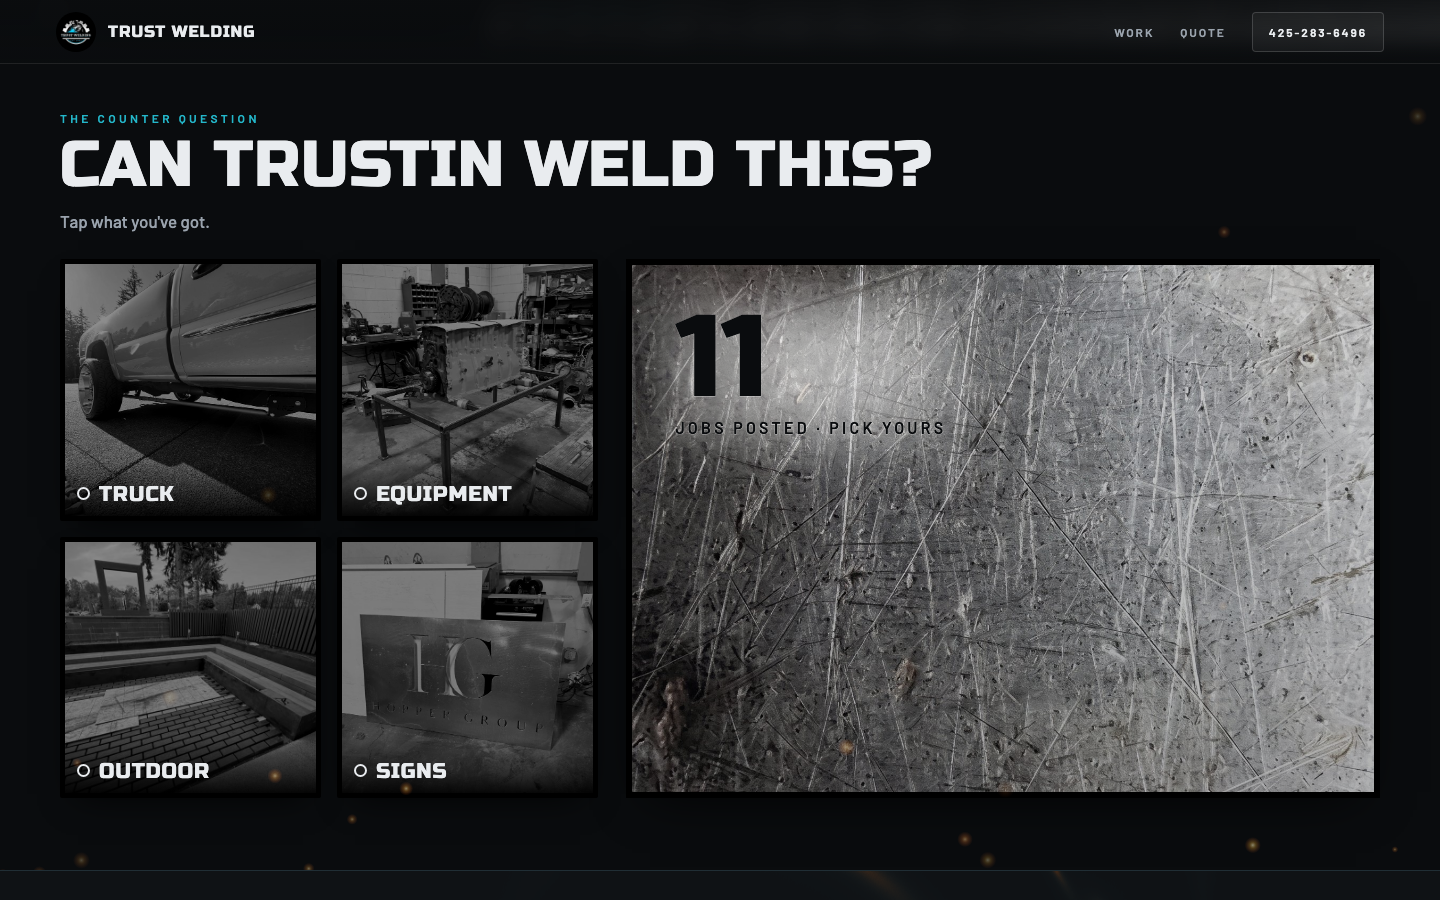
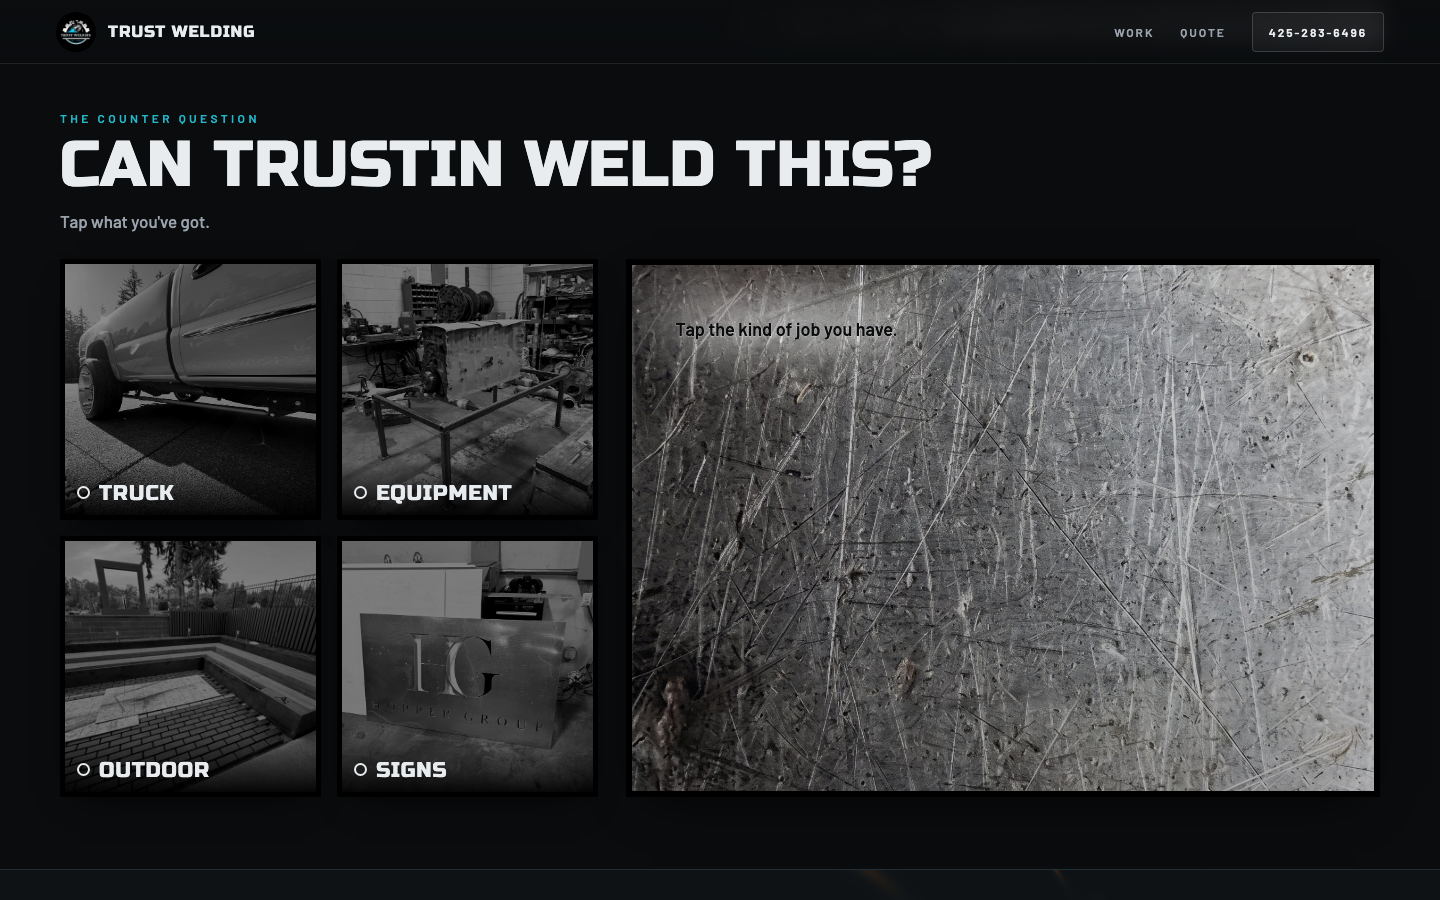
Trust Welding learned pass: the learned script tag was cut with the embers; restored (opening, gadget, thumb bar mount again)

diff --git a/trust-welding/learned/index.html b/trust-welding/learned/index.html
@@ -9,11 +9,11 @@
 <meta name="description" content="Trust Welding: custom metal fabrication and mobile welding serving King County. Steel, aluminum and Corten. Call or text 425-283-6496.">
 <link rel="preconnect" href="https://fonts.googleapis.com"><link rel="preconnect" href="https://fonts.gstatic.com" crossorigin>
 <link href="https://fonts.googleapis.com/css2?family=Russo+One&family=Barlow:wght@400;500;600&family=Archivo:wght@600;700&display=swap" rel="stylesheet">
-<link rel="stylesheet" href="css/site3.css?v=1793940816">
-<link rel="stylesheet" href="css/fold-text.css?v=1793940816">
-<link rel="stylesheet" href="css/wtj.css?v=1793940816">
-<link rel="stylesheet" href="css/molten-metal.css?v=1793940816">
-<link rel="stylesheet" href="css/learned.css?v=1793940816">
+<link rel="stylesheet" href="css/site3.css?v=1793940878">
+<link rel="stylesheet" href="css/fold-text.css?v=1793940878">
+<link rel="stylesheet" href="css/wtj.css?v=1793940878">
+<link rel="stylesheet" href="css/molten-metal.css?v=1793940878">
+<link rel="stylesheet" href="css/learned.css?v=1793940878">
 <link rel="icon" href="images/badge.jpg">
 </head>
 <body>
@@ -103,8 +103,8 @@
 </footer>
 <script src="js/vendor/gsap.min.js"></script>
 <script src="js/vendor/ScrollTrigger.min.js"></script>
-<script src="js/vendor/fold-text.js?v=1793940816"></script>
-<script src="js/vendor/wtj/whats-the-job.js?v=1793940816"></script>
+<script src="js/vendor/fold-text.js?v=1793940878"></script>
+<script src="js/vendor/wtj/whats-the-job.js?v=1793940878"></script>
 <script>
 // the panel holds; the section changes every 3 photos (the photo column's scroll progress); every time a section opens its words fold open (React Bits Fold Text, ported: js/vendor/fold-text.js)
 gsap.registerPlugin(ScrollTrigger);
@@ -145,6 +145,9 @@ if (!reduce) {
   const set = () => { const w = track.scrollWidth / 2; track.style.setProperty('--w', w + 'px'); track.style.setProperty('--dur', (w / 40) + 's'); };
   set(); addEventListener('resize', set); if (document.fonts) document.fonts.ready.then(set);
 })();
+</script>
+<script src="js/learned.js?v=1793940878"></script>
+<script>
 // Format panel (Hayden 11/4: "themes or formats… for me to manually adjust and edit"): localhost or ?edit=1; sliders set CSS variables on <html>, remembered in localStorage 'tw-format'; Copy puts the JSON on the clipboard
 if ((location.hostname === 'localhost' || location.search.includes('edit=1')) && !location.search.includes('nofmt')) (function () {
   const R = document.documentElement, KEY = 'tw-format';

diff --git a/trust-welding/versions/learned.html b/trust-welding/versions/learned.html
@@ -9,11 +9,11 @@
 <meta name="description" content="Trust Welding: custom metal fabrication and mobile welding serving King County. Steel, aluminum and Corten. Call or text 425-283-6496.">
 <link rel="preconnect" href="https://fonts.googleapis.com"><link rel="preconnect" href="https://fonts.gstatic.com" crossorigin>
 <link href="https://fonts.googleapis.com/css2?family=Russo+One&family=Barlow:wght@400;500;600&family=Archivo:wght@600;700&display=swap" rel="stylesheet">
-<link rel="stylesheet" href="css/site3.css?v=1793940816">
-<link rel="stylesheet" href="css/fold-text.css?v=1793940816">
-<link rel="stylesheet" href="css/wtj.css?v=1793940816">
-<link rel="stylesheet" href="css/molten-metal.css?v=1793940816">
-<link rel="stylesheet" href="css/learned.css?v=1793940816">
+<link rel="stylesheet" href="css/site3.css?v=1793940878">
+<link rel="stylesheet" href="css/fold-text.css?v=1793940878">
+<link rel="stylesheet" href="css/wtj.css?v=1793940878">
+<link rel="stylesheet" href="css/molten-metal.css?v=1793940878">
+<link rel="stylesheet" href="css/learned.css?v=1793940878">
 <link rel="icon" href="images/badge.jpg">
 </head>
 <body>
@@ -103,8 +103,8 @@
 </footer>
 <script src="js/vendor/gsap.min.js"></script>
 <script src="js/vendor/ScrollTrigger.min.js"></script>
-<script src="js/vendor/fold-text.js?v=1793940816"></script>
-<script src="js/vendor/wtj/whats-the-job.js?v=1793940816"></script>
+<script src="js/vendor/fold-text.js?v=1793940878"></script>
+<script src="js/vendor/wtj/whats-the-job.js?v=1793940878"></script>
 <script>
 // the panel holds; the section changes every 3 photos (the photo column's scroll progress); every time a section opens its words fold open (React Bits Fold Text, ported: js/vendor/fold-text.js)
 gsap.registerPlugin(ScrollTrigger);
@@ -145,6 +145,9 @@ if (!reduce) {
   const set = () => { const w = track.scrollWidth / 2; track.style.setProperty('--w', w + 'px'); track.style.setProperty('--dur', (w / 40) + 's'); };
   set(); addEventListener('resize', set); if (document.fonts) document.fonts.ready.then(set);
 })();
+</script>
+<script src="js/learned.js?v=1793940878"></script>
+<script>
 // Format panel (Hayden 11/4: "themes or formats… for me to manually adjust and edit"): localhost or ?edit=1; sliders set CSS variables on <html>, remembered in localStorage 'tw-format'; Copy puts the JSON on the clipboard
 if ((location.hostname === 'localhost' || location.search.includes('edit=1')) && !location.search.includes('nofmt')) (function () {
   const R = document.documentElement, KEY = 'tw-format';

diff --git a/trust-welding/js/learned.js b/trust-welding/js/learned.js
@@ -31,7 +31,7 @@
   const g = document.getElementById('whats-the-job');
   if (g && window.WTJ) {
     const P = f => 'images/work/phone/' + f + '.jpg';
-    WTJ.mount(g, { total: 11, totalLabel: 'jobs posted · pick yours', plate: new URL('images/texture/panel-steel.jpg', document.baseURI).href, sms: SMS, button: 'Text Trustin a photo', smsBody: x => "Hi Trustin, I've got a " + x.ask + ". Here's a photo:",
+    WTJ.mount(g, { total: 11, totalLabel: 'Tap the kind of job you have.', sparks: false, plate: new URL('images/texture/panel-steel.jpg', document.baseURI).href, sms: SMS, button: 'Text Trustin a photo', smsBody: x => "Hi Trustin, I've got a " + x.ask + ". Here's a photo:",
       groups: [
         { key: 'truck', label: 'Truck', alt: "Trustin's work on a Duramax pickup", cover: P('track-bars-duramax'), noun: 'truck jobs posted', ask: 'truck job', jobs: [{ caption: 'Track bars · Duramax LBZ' }, { caption: 'Headache rack' }, { caption: 'Aluminum roof-rack bars' }] },
         { key: 'equipment', label: 'Equipment', alt: 'A Cat engine on a steel motor mount', cover: P('motor-mount-cat-rebuild'), noun: 'equipment jobs posted', ask: 'equipment job', jobs: [{ caption: 'D-rings · roll-off bed' }, { caption: 'Gantry lift' }, { caption: 'Motor mount · Cat rebuild' }] },
